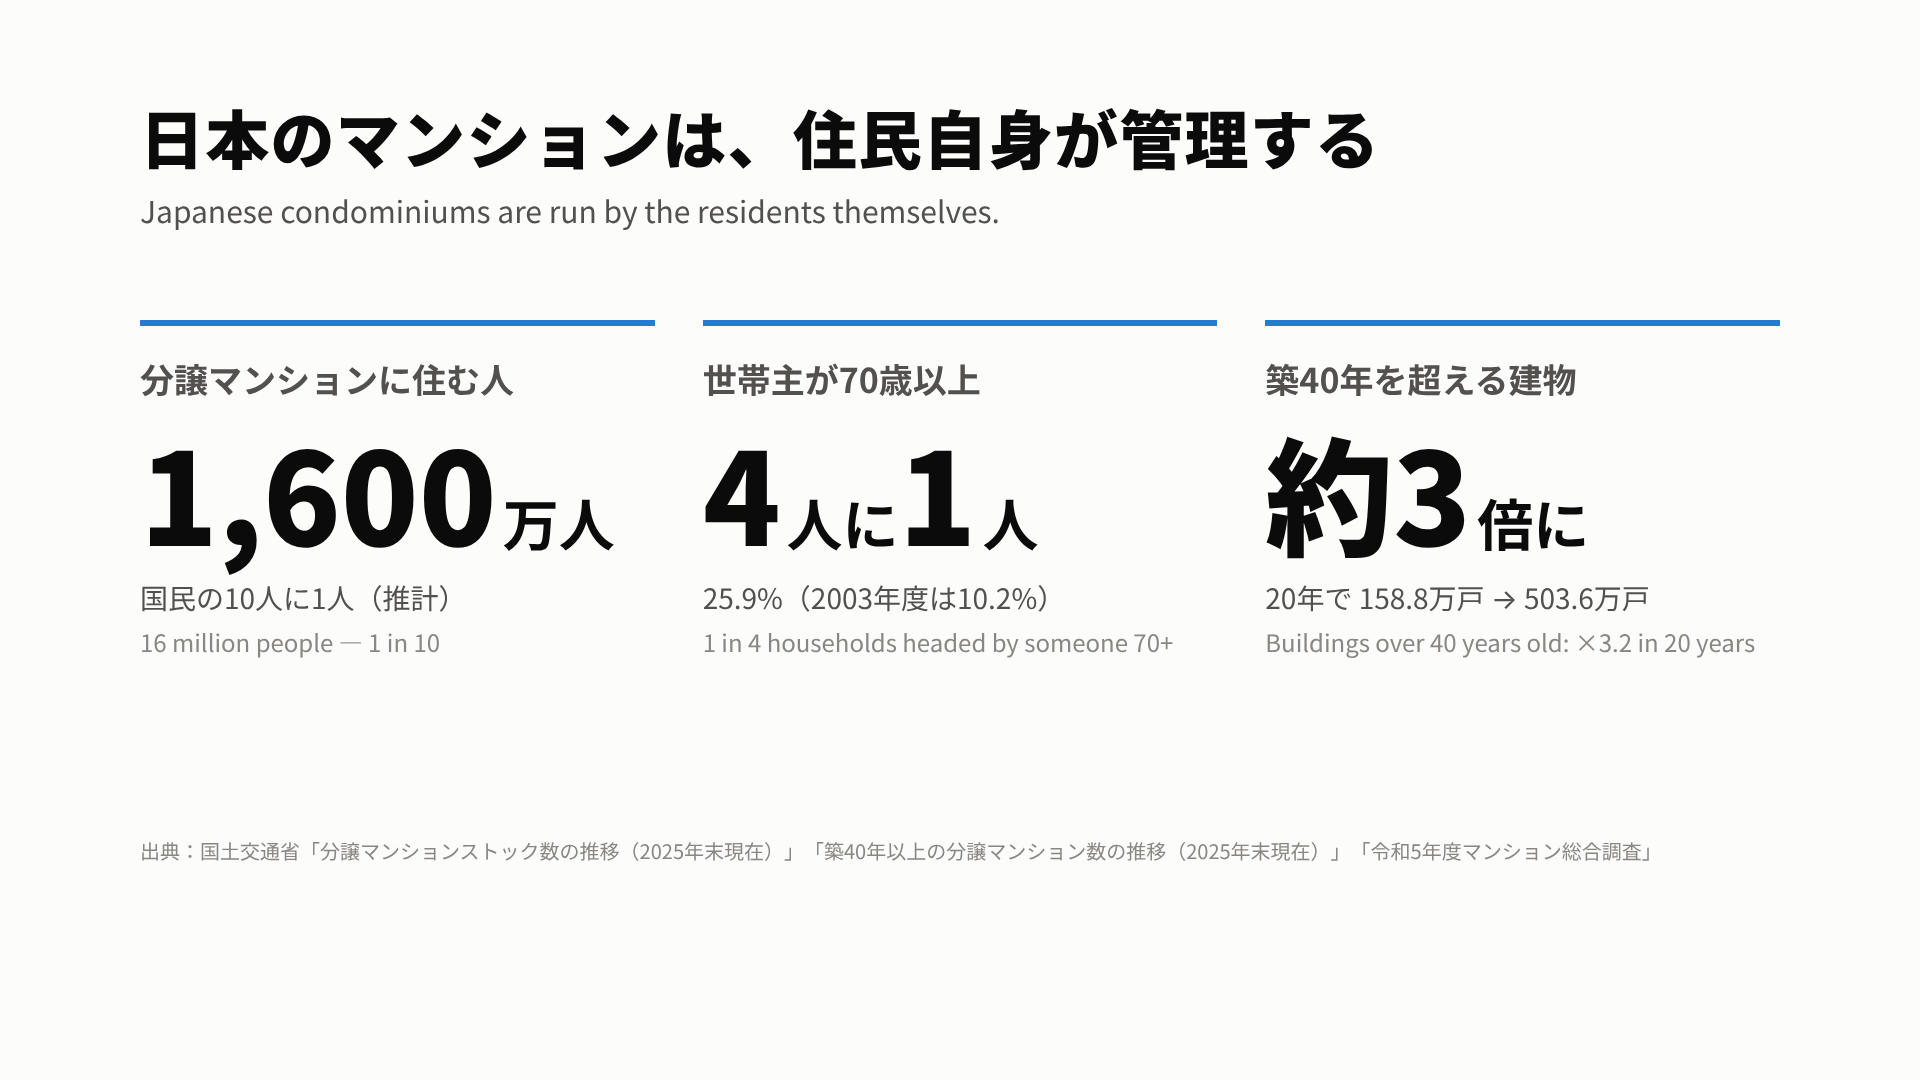
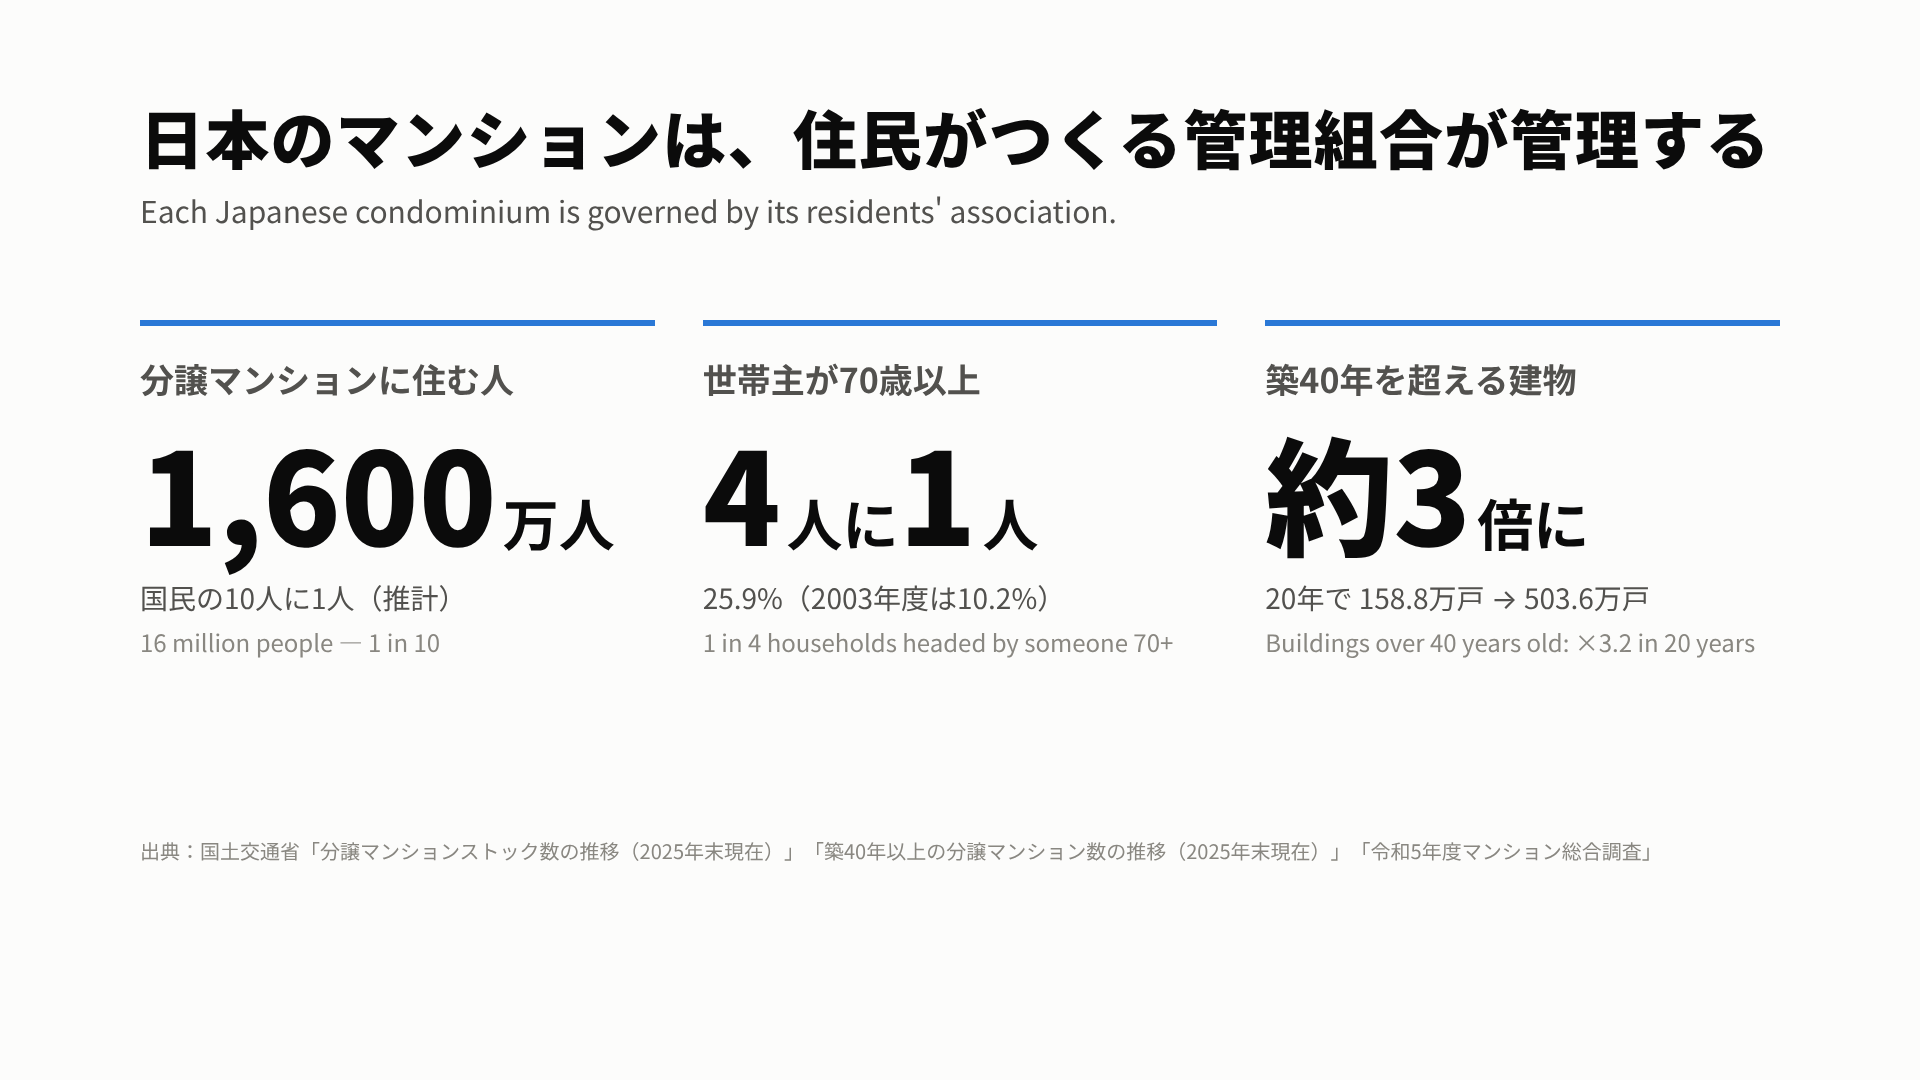
図01の見出しを「住民がつくる管理組合が管理する」に直した（ナレーションと同じ言い方に）。台本の一覧とデザインのメモも同じく
Claude-Session: https://claude.ai/code/session_01KMDftsrbgp6KUVXbedew97

Changed region(s): [[0.4688, 0.0917, 0.9375, 0.1528], [0.0625, 0.1833, 0.5938, 0.2139]]

diff --git a/docs/demo/figures/src/01_japan.html b/docs/demo/figures/src/01_japan.html
@@ -9,8 +9,8 @@
 .note { font-size: 28px; color: var(--ink2); margin-top: 14px; line-height: 1.5; }
 .ten { font-size: 24px; color: var(--muted); margin-top: 6px; }
 </style></head><body>
-<h1>日本のマンションは、住民自身が管理する</h1>
-<div class="en">Japanese condominiums are run by the residents themselves.</div>
+<h1>日本のマンションは、住民がつくる管理組合が管理する</h1>
+<div class="en">Each Japanese condominium is governed by its residents' association.</div>
 <div class="tiles">
   <div class="tile"><div class="label">分譲マンションに住む人</div>
     <div class="value">1,600<small>万人</small></div>

diff --git a/docs/DEMO.md b/docs/DEMO.md
@@ -15,7 +15,7 @@
 ## 全体の流れ（3:00）
 | 時間 | 場面 | 伝えること | 効く審査基準 |
 | --- | --- | --- | --- |
-| 0:00–0:22 | ① 日本のマンション | 住民自身が管理する。約1,600万人。高齢化と老朽化 | インパクト |
+| 0:00–0:22 | ① 日本のマンション | 住民がつくる管理組合が管理する。約1,600万人。高齢化と老朽化 | インパクト |
 | 0:22–0:45 | ② 課題 | 法律が変わった。規約が追いついていない。古い規約のままだと決議が争われるおそれ | インパクト |
 | 0:45–1:15 | ③ 点検 | 規約を読み込むと、AI が条ごとに法律と照らし合わせ、根拠付きで指摘する | デモ、Claudeの活用 |
 | 1:15–1:45 | ④ 改定案と採点役 | 改定案を書く AI と、確認する別の AI。合格するまで直す。新旧対照表 | Claudeの活用、深さ |

diff --git a/docs/DESIGN_IDEAS.md b/docs/DESIGN_IDEAS.md
@@ -15,7 +15,7 @@
   - 住民向けの説明を「回覧板」「掲示板の掲示物」の体裁で出す
   - 最新の規約の印刷用は、規約集らしい体裁（縦書きの選択肢、和暦の日付はすでに対応）
 - 日本の集合住宅が伝わるビジュアル（団地・分譲マンションの外観、集会室での総会の様子など）
-- デモ動画：英語の字幕を付ける。冒頭で「日本のマンションは住民自身が管理組合をつくり、規約を総会で決める」ことを短く説明する
+- デモ動画：英語の字幕を付ける。冒頭で「日本のマンションは住民が管理組合をつくり、規約を総会で決める」ことを短く説明する
 
 ## 守ること（CLAUDE.md・docs/SPEC.md）
 - 画面と出力は日本語のまま（デモ動画の字幕は英語でよい）
